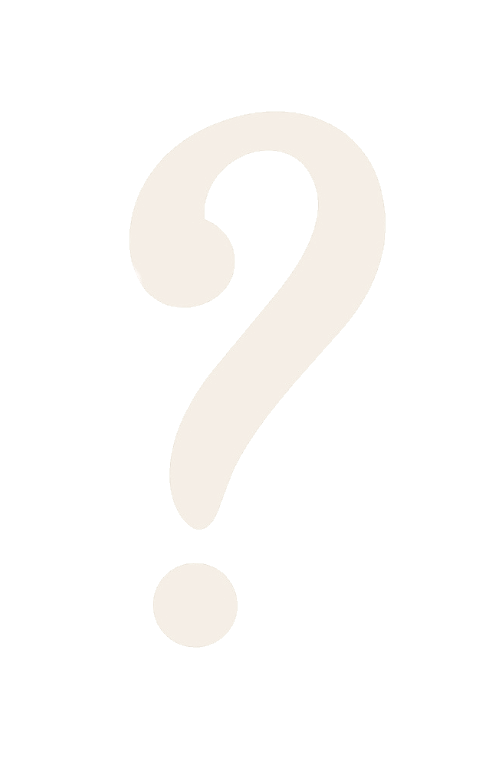
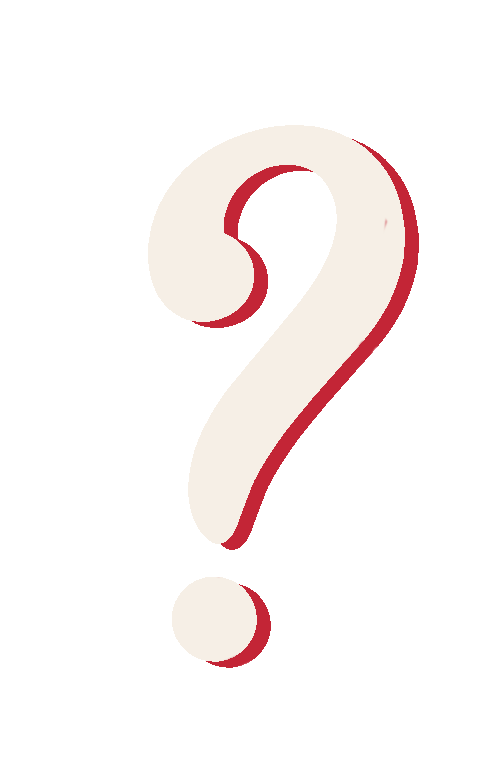
Fonts added, Press any key to start/continue, Timeout for alert

Changed region(s): [[0.2449, 0.1215, 0.7041, 0.6988], [0.3061, 0.1823, 0.8571, 0.8507], [0.3673, 0.7596, 0.551, 0.8811]]

diff --git a/assets/javascript/game2.js b/assets/javascript/game2.js
@@ -30,6 +30,7 @@ var game = {
   gamesLost:0,
   initialized: false,
   correctGuess: false,
+  continue: false,
   randomRemove: function(){
       index = Math.floor(Math.random()*this.houses.length);
       this.secretWord = this.houses[index];
@@ -43,10 +44,14 @@ document.onkeyup = function doThisOnKeyUp(event){
   game.previousGuess = findLetter(game.currentGuesses,event.key);
   game.correctGuess = false;
   
-  // Start game when "Enter" is pressed
-  if (event.keyCode == 13) {
+console.log(event.click);
+
+
+  // Start game when a key is pressed
+  if (event.keyCode !== (-1) && !game.initialized) {
     instructions.innerHTML = "Try to guess the House";
     document.getElementById("houseSigil").src="assets/images/blank.png";
+    document.getElementById("image").style.border= "none";
     game.initialized = true;
     // Select initial word to display
     game.randomRemove();
@@ -63,29 +68,33 @@ document.onkeyup = function doThisOnKeyUp(event){
         if (game.secretWord[i] == event.key.toLowerCase()) {
           game.correctGuess = true;
           game.currentWordDisplay = replaceAt(game.currentWordDisplay, i, event.key.toLowerCase());
+  
         } 
         else if (i == game.secretWord.length - 1 && !game.correctGuess && isLetter(event.key)) {
           game.currentGuesses += event.key.toLowerCase() + ","; 
           game.lives -= 1;
+
         }
       }
     }
-
+    // console.log(game.currentWordDisplay);
     currentWord.innerHTML = game.currentWordDisplay;
     wrongGuess.innerHTML = game.currentGuesses;
     livesLeft.innerHTML = game.lives;
-
+    
     if (game.lives == 0) {
       game.gamesLost += 1;
       document.getElementById("houseSigil").src= "assets/images/"+game.secretWord+ ".jpg";
-      alert("The house was " + game.secretWord);
+      document.getElementById("image").style.border= "#c32536 groove 10px";
+      setTimeout(function() { alert("The house was " + game.secretWord); },100);
     }
 
     if (game.currentWordDisplay == game.secretWord) {
-      // alert("House guessed!");
       game.wordComplete = true;
       document.getElementById("houseSigil").src= "assets/images/"+game.secretWord+ ".jpg";
+      document.getElementById("image").style.border= "#c32536 groove 10px";
       game.gamesWon += 1;
+      setTimeout(function() { alert("House guessed!"); },100);
     }
 
     if (game.wordComplete || game.lives == 0) {
@@ -94,7 +103,7 @@ document.onkeyup = function doThisOnKeyUp(event){
 
       if (game.houses.length == 0) {
         currentWord.innerHTML = game.currentWordDisplay;
-        alert("Game Complete");
+         setTimeout(function() { alert("Game Complete"); },100);
         instructions.innerHTML = "Game Complete";
       }
 
@@ -103,7 +112,8 @@ document.onkeyup = function doThisOnKeyUp(event){
       }
 
       game.initialized = false;
-      instructions.innerHTML = "Press ENTER for a new word";    
+      instructions.innerHTML = "Press any key for a new word";
+
       wordsGuessed.innerHTML = game.gamesWon;
       wordsMissed.innerHTML = game.gamesLost;
     }

diff --git a/assets/css/style.css b/assets/css/style.css
@@ -4,6 +4,7 @@ body {
   background-repeat: repeat;
   opacity: 0.9;
   min-width:980px;
+  font-family: 'Metamorphous', cursive;
 }
 
 /* Header */
@@ -12,17 +13,7 @@ body {
   margin: 15px auto;
   height:100px;
   background-color: rgba(52,58,64,.75);
-  color: #f6efe6;
   border: #c32536 groove 15px;
-
-}
-h1 {
-  /* padding: 20px 20px;
-  font-size: 60px;
-  text-align: center;
-  opacity:1;
-  font-weight: 900;
-  text-shadow: 3px 3px #c32536; */
 }
 
 /* Main */
@@ -43,7 +34,7 @@ Main{
 .container-image {
   width: auto;
   height:329px;
-  border: #c32536 groove 10px;
+  /* border: #c32536 groove 10px; */
   float: left;
   box-sizing: border-box;
   margin: 20px 40px 20px;
@@ -51,7 +42,7 @@ Main{
 
 
 .container-body {
-  background-color: rgba(52,58,64,.97);
+  background-color: rgba(52,58,64,.75);
   width: 600px;
   height: 329px;
   border: #c32536 groove 10px;
@@ -62,8 +53,9 @@ Main{
 }
 
 #instructions {
-  font-size: 40px;
+  font-size: 30px;
   margin: 10px;
+  text-shadow: 1px 1px #c32536;
 }
 #currentWord {
   letter-spacing: 10px;
@@ -76,11 +68,14 @@ Main{
 .infoText {
   font-size:30px;
   margin: 10px 40px 5px;
+  text-shadow: 1px 1px #c32536;
 }
 
 #wrongGuess {
   font-size: 25px;
-  letter-spacing: 4mpx;
+  letter-spacing: 4px;
+  text-shadow: 1px 1px #c32536;
+  font-family: 'MedievalSharp', cursive;
 }
 
 #livesLeft,
@@ -89,5 +84,7 @@ Main{
   font-size: 25px;
   margin-bottom: 5px;
   text-decoration-line: underline;
-   text-decoration-style: solid;
+  text-decoration-style: solid;
+  text-shadow: 1px 1px #c32536;
+  font-family: 'MedievalSharp', cursive;
 }

diff --git a/index.html b/index.html
@@ -7,6 +7,8 @@
     <title>Guess the House!</title>
     <link rel="stylesheet" href="assets/css/reset.css">
     <link rel="stylesheet" href="assets/css/style.css">
+    <link href="https://fonts.googleapis.com/css?family=Metamorphous" rel="stylesheet">
+    <link href="https://fonts.googleapis.com/css?family=MedievalSharp" rel="stylesheet">
 </head>
 <body>
   <header class="container">
@@ -18,13 +20,13 @@
   <main>
     <div class="container-main">
 
-      <div class="container-image">
+      <div class="container-image" id="image">
         <img id="houseSigil" src="assets/images/blank.png" alt= House width="200px" height="auto" >
       </div>  
 
       <div class= "container-body">   
         <h2 id="instructions">
-          Press ENTER to begin!
+          Press any key to begin!
         </h2>
         <p id="currentWord"></p>
         

diff --git a/assets/javascript/game.js b/assets/javascript/game.js
@@ -69,7 +69,7 @@ document.onkeyup = function doThisOnKeyUp(event) {
   wordsGuessed.innerHTML = gamesWon;
   wordsMissed.innerHTML = gamesLost;
 
-  if (event.keyCode == 13) {
+  if (event.keyCode == 13 && !displayText) {
     instructions.innerHTML = "Try to guess the House";
     document.getElementById("houseSigil").src="assets/images/blank.png";
     displayText = true;
